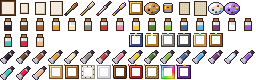
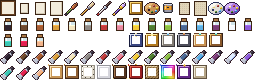
Gilded Vale: Tess's counter, her carved pieces, and the Carved Ash Frame
From the approved design (docs/design/vale_newcomers.md section 5; the user's stock list,
2026-11-09), in data/tess_shop.json:
- Her own pieces, by her heart events: a rabbit, duck and fox from the start; an owl,
  heron and ash and walnut stools after 4; frames after 8; a little Gilded Tree (Bram's
  carving) after 10. Higgsfield, one each in the style of the game's small furniture,
  read down to its size (tools/art/tess_counter_art.py), about 10.5 credits; the tree
  from the carving's art. No signs.
- Beside them the game's own oak, walnut and birch chairs, tables, end tables and
  benches, the Stump Seat, panels, Woodcut Rug and Totem Pole at its prices; dressers
  after 8 hearts.
- The Carved Ash Frame: a new frame style in the main mod (Rare, Thrift), sold only by
  Tess with the mod's pine, oak, birch and walnut frames. Art recoloured from the plain
  frame with chisel marks (tools/art/ash_frame.py); furniture.png is full, so its framed
  paintings use their own sheet (ArtItems.MoreFramesTexture). museart_frametest: 17 styles.
- The counter opens with her anywhere in the studio; three shop lines and a closed card,
  approved by the user.

Checked in a dev game (devmods_tess): the counter opens with her stock, every new item
has its icon, museart_frametest all pass on a fresh farm.

Changed region(s): [[0.75, 0.8, 0.8125, 1.0]]

diff --git a/tools/art/tess_counter_art.py b/tools/art/tess_counter_art.py
@@ -1,0 +1,92 @@
+"""Tess's own pieces for her counter in Studio III (1.4): carved figures and stools. Higgsfield
+gpt_image_2_6, one piece each in the style of the game's own small furniture (its Squirrel
+Figurine, Futan Rabbit, Model Ship and a stool as the reference), the user's OK for about 15
+credits; each cut from its background and read down to the game's size, a pixel taking its
+cell's commonest colour. The small Gilded Tree is Bram's finished carving (studio3/carving/
+state_5), read down the same way.
+
+  sheet  art/tess/counter/carvings.png -> [CP] Gilded Vale (dev)/assets/tess/carvings.png, 8 across:
+         0 rabbit, 1 duck, 2 fox, 3 owl (16x16; row 0)
+         4 ash stool, 5 walnut stool (16x32, the stool in the lower half, as the game's stools)
+         6 heron, 7 small Gilded Tree (16x32)
+
+Usage: python tools/art/tess_counter_art.py
+"""
+import os
+from collections import Counter
+from PIL import Image
+
+D = "art/tess/counter/"
+
+
+def cut(im, tol=48):
+    px = im.load()
+    w, h = im.size
+    bg = px[4, 4]
+    close = lambda c: sum(abs(c[i] - bg[i]) for i in range(3)) < tol
+    seen, todo = set(), [(x, y) for x in range(0, w, 2) for y in (0, h - 1)] + [(x, y) for y in range(0, h, 2) for x in (0, w - 1)]
+    while todo:
+        x, y = todo.pop()
+        if (x, y) in seen or not (0 <= x < w and 0 <= y < h) or not close(px[x, y]):
+            continue
+        seen.add((x, y))
+        todo += [(x + 1, y), (x - 1, y), (x, y + 1), (x, y - 1)]
+    for x, y in seen:
+        px[x, y] = (0, 0, 0, 0)
+    return im
+
+
+def shrink(im, W, H):
+    im = im.crop(im.getbbox())
+    s = min(W / im.width, H / im.height)
+    nw, nh = max(1, round(im.width * s)), max(1, round(im.height * s))
+    ip = im.load()
+    out = Image.new("RGBA", (W, H))
+    op = out.load()
+    ox, oy = (W - nw) // 2, H - nh
+    for ty in range(nh):
+        for tx in range(nw):
+            x0, y0 = int(tx / s), int(ty / s)
+            x1, y1 = max(x0 + 1, int((tx + 1) / s)), max(y0 + 1, int((ty + 1) / s))
+            cells = [ip[x, y] for y in range(y0, min(y1, im.height)) for x in range(x0, min(x1, im.width))]
+            opaque = [c for c in cells if c[3] > 128]
+            if len(opaque) * 2 < len(cells):
+                continue
+            q = Counter((c[0] // 14, c[1] // 14, c[2] // 14) for c in opaque).most_common(1)[0][0]
+            pick = [c for c in opaque if (c[0] // 14, c[1] // 14, c[2] // 14) == q]
+            op[ox + tx, oy + ty] = tuple(sum(c[i] for c in pick) // len(pick) for i in range(3)) + (255,)
+    return out
+
+
+def piece(name, W=16, H=16):
+    return shrink(cut(Image.open(D + name + ".png").convert("RGBA")), W, H)
+
+
+def owl():
+    im = piece("owl")
+    px = im.load()
+    # its eyes read as mud at this size: a dark pupil in a pale ring each
+    for cx in (5, 10):
+        for dx, dy in ((-1, 0), (1, 0), (0, -1), (0, 1)):
+            px[cx + dx, 4 + dy] = (226, 160, 98, 255)
+        px[cx, 4] = (52, 24, 10, 255)
+    px[7, 5] = px[8, 5] = (196, 120, 60, 255)          # the beak
+    return im
+
+
+def main():
+    sheet = Image.new("RGBA", (128, 32))
+    for i, name in enumerate(("rabbit", "duck", "fox")):
+        sheet.alpha_composite(piece(name), (i * 16, 0))
+    sheet.alpha_composite(owl(), (48, 0))
+    for i, name in enumerate(("ash_stool", "walnut_stool")):
+        sheet.alpha_composite(piece(name), (64 + i * 16, 16))
+    sheet.alpha_composite(piece("heron", 16, 32), (96, 0))
+    tree = shrink(cut(Image.open("art/gilded_vale/interiors/studio3/carving/state_5.png").convert("RGBA")), 16, 32)
+    sheet.alpha_composite(tree, (112, 0))
+    sheet.save(D + "carvings.png")
+    print("wrote", D + "carvings.png")
+
+
+if __name__ == "__main__":
+    main()

diff --git a/tools/art/ash_frame.py b/tools/art/ash_frame.py
@@ -1,0 +1,72 @@
+"""Draws the Carved Ash Frame (1.4): the frame Tess carves and sells at her counter in the
+Gilded Vale's Studio III, from her 8-heart event (docs/tess_brief.md; the user, 2026-11-09).
+Rare, Thrift (ArtStudio/Painting/Frames.cs): she wastes nothing.
+
+Made the way frame_styles.py makes the 1.3 frames: the plain frame (furniture.png's first 2x2
+and 3x3) recoloured by lightness into pale ash, with chisel notches cut along its border; its
+1x1 the way frame_1x1.py makes theirs; its item icon from the Picture Frame's (items.png 8).
+furniture.png is full (80 tiles a row), so the ash frame's framed paintings have a sheet of
+their own:
+
+  ArtStudio/assets/furniture_more.png (80x64, 5 tiles a row):
+      sprite 0  the 2x2 frame        sprite 2  the 3x3 frame        sprite 15  the 1x1 frame
+  ArtStudio/assets/items.png: the frame item at sprite 76
+
+Usage: ash_frame.py <ArtStudio/assets dir>
+"""
+import os
+import sys
+from PIL import Image
+
+sys.path.insert(0, os.path.dirname(os.path.abspath(__file__)))
+from set_frames import recolour
+from frame_1x1 import ring
+
+# Darkest to lightest: pale ash, a little grey.
+ASH = [(98, 84, 66), (142, 126, 100), (180, 164, 134), (206, 192, 162), (226, 214, 188), (242, 234, 214)]
+ITEM_SPRITE = 76
+
+
+def notches(tile, dark):
+    """Chisel cuts along the frame: every sixth pixel on the border's middle line a little
+    darker, like a row of gouge marks (subtle: the frame still reads as a frame)."""
+    px = tile.load()
+    w, h = tile.size
+    inside = px[w // 2, h // 2][:3]
+    frame = {(x, y) for y in range(h) for x in range(w) if px[x, y][3] and px[x, y][:3] != inside}
+    for x in range(4, w - 4, 6):
+        for y in (1, h - 2):
+            if (x, y) in frame:
+                px[x, y] = dark + (255,)
+    for y in range(4, h - 4, 6):
+        for x in (1, w - 2):
+            if (x, y) in frame:
+                px[x, y] = dark + (255,)
+    return tile
+
+
+def main():
+    assets = sys.argv[1]
+    plain = Image.open(os.path.join(assets, "furniture.png")).convert("RGBA")
+    out = Image.new("RGBA", (80, 64), (0, 0, 0, 0))
+    medium = notches(recolour(plain.crop((0, 0, 32, 32)).copy(), ASH), ASH[1])
+    large = notches(recolour(plain.crop((32, 0, 80, 48)).copy(), ASH), ASH[1])
+    out.alpha_composite(medium, (0, 0))
+    out.alpha_composite(large, (32, 0))
+    out.alpha_composite(ring(medium), (0, 48))
+    out.save(os.path.join(assets, "furniture_more.png"))
+
+    items_path = os.path.join(assets, "items.png")
+    items = Image.open(items_path).convert("RGBA")
+    per_row = items.width // 16
+    x, y = 8 % per_row * 16, 8 // per_row * 16
+    icon = recolour(items.crop((x, y, x + 16, y + 16)).copy(), ASH, keep_inside=False)
+    tx, ty = ITEM_SPRITE % per_row * 16, ITEM_SPRITE // per_row * 16
+    items.paste((0, 0, 0, 0), (tx, ty, tx + 16, ty + 16))
+    items.alpha_composite(icon, (tx, ty))
+    items.save(items_path)
+    print("wrote furniture_more.png and the item icon at sprite", ITEM_SPRITE)
+
+
+if __name__ == "__main__":
+    main()

diff --git a/ArtStudio/Painting/ArtItems.cs b/ArtStudio/Painting/ArtItems.cs
@@ -53,7 +53,9 @@ internal static class ArtItems
     // And the rest (1.3, section 5 of the plan; tools/art/frame_styles.py):
     // common, from Sable's shop; uncommon, as Painting levels up; legendary,
     // Qi's. What each does when it hangs is in Frames.
-    private static readonly string[] MoreFrameIds = { "pine", "oak", "birch", "white", "walnut", "red-lacquer", "rope", "prismatic", "qi" };
+    // (1.4: "ash", the Carved Ash Frame, sold only by Tess in the Gilded Vale. furniture.png is
+    // full, so its framed paintings are on a sheet of their own: MoreFramesTexture.)
+    private static readonly string[] MoreFrameIds = { "pine", "oak", "birch", "white", "walnut", "red-lacquer", "rope", "prismatic", "qi", "ash" };
     public static readonly FrameStyle[] MoreFrames = MoreFrameIds.Select(SetFrame).ToArray();
     private const int MoreFrameSprite = 67, MoreFrameFurniture = 35;
 
@@ -68,6 +70,10 @@ internal static class ArtItems
 
     public const string BigCraftablesTexture = "Mods/" + ModEntry.Id + "/BigCraftables";
     public const string FurnitureTexture = "Mods/" + ModEntry.Id + "/Furniture";
+    // Frames that don't fit furniture.png (tools/art/ash_frame.py): a style's 2x2 at 0, 3x3 at 2,
+    // 1x1 at 15 (5 tiles a row), five tiles across per style.
+    public const string MoreFramesTexture = "Mods/" + ModEntry.Id + "/FurnitureMore";
+    private static readonly string[] OwnSheetFrames = { "ash" };
 
     // Sprite indices in the items sheet (16 columns of 16×16).
     private const int CanvasSprite = 1, BrushSprite = 4, FrameSprite = 8, PigmentSprite = 16, TubeSprite = 48;
@@ -334,6 +340,14 @@ internal static class ArtItems
         for (int n = 0; n < MoreFrames.Length; n++)
         {
             var style = MoreFrames[n];
+            int own = System.Array.IndexOf(OwnSheetFrames, style.Id);
+            if (own >= 0)
+            {
+                string more = MoreFramesTexture.Replace('/', '\\');
+                furniture[style.SmallId] = $"{style.SmallId}/painting/1 1/1 1/1/250/-1/{I18n.Get("item.framed")}/{own * 5 + 15}/{more}/true";
+                furniture[style.LargeId] = $"{style.LargeId}/painting/3 3/3 3/1/500/-1/{I18n.Get("item.framed")}/{own * 5 + 2}/{more}/true";
+                continue;
+            }
             int small = MoreFrameFurniture + 5 * n;
             furniture[style.SmallId] = $"{style.SmallId}/painting/1 1/1 1/1/250/-1/{I18n.Get("item.framed")}/{small + SmallFrameRow}/{texture}/true";
             furniture[style.LargeId] = $"{style.LargeId}/painting/3 3/3 3/1/500/-1/{I18n.Get("item.framed")}/{small + 2}/{texture}/true";

diff --git a/ArtStudio/DevGame.cs b/ArtStudio/DevGame.cs
@@ -4181,8 +4181,8 @@ internal static class DevGame
         var furniture = DataLoader.Furniture(Game1.content);
         var missing = ArtItems.FrameStyles.Where(s => !objects.ContainsKey(s.ItemId) || !furniture.ContainsKey(s.SmallId) || !furniture.ContainsKey(s.LargeId)
             || !Frames.Styles.ContainsKey(s.Id) || ItemRegistry.Create("(O)" + s.ItemId).DisplayName.Contains("Error")).Select(s => s.Id).ToList();
-        Check(monitor, "all 16 frame styles have a frame, framed paintings, a rarity and a trait",
-            ArtItems.FrameStyles.Length == 16 && missing.Count == 0, missing.Count > 0 ? string.Join(", ", missing) : "");
+        Check(monitor, "all 17 frame styles have a frame, framed paintings, a rarity and a trait",
+            ArtItems.FrameStyles.Length == 17 && missing.Count == 0, missing.Count > 0 ? string.Join(", ", missing) : "");
 
         // A room's studio: the three strongest framed paintings count.
         SObject Painting(int quality = PaintingRules.Gold)

diff --git a/ArtStudio/Menus/EaselMenu.Setup.cs b/ArtStudio/Menus/EaselMenu.Setup.cs
@@ -836,6 +836,7 @@ internal sealed partial class EaselMenu
         ["walnut"] = (new(36, 20, 14), new(112, 72, 44), new(164, 118, 76), new(214, 178, 96)),
         ["red-lacquer"] = (new(70, 12, 16), new(186, 48, 44), new(232, 104, 84), new(236, 196, 84)),
         ["rope"] = (new(96, 70, 40), new(196, 164, 112), new(236, 214, 170), new(136, 104, 64)),
+        ["ash"] = (new(98, 84, 66), new(206, 192, 162), new(242, 234, 214), new(142, 126, 100)),
         ["prismatic"] = (new(90, 60, 140), new(90, 190, 220), new(250, 220, 120), new(240, 110, 160)),
         ["qi"] = (new(40, 14, 58), new(132, 64, 170), new(200, 140, 230), new(236, 196, 84)),
         ["sandstone"] = (new(110, 66, 40), new(222, 178, 112), new(250, 232, 190), new(190, 250, 240)),

diff --git a/ArtStudio/ModEntry.cs b/ArtStudio/ModEntry.cs
@@ -167,6 +167,8 @@ public class ModEntry : Mod
             e.LoadFromModFile<Texture2D>("assets/bigcraftables.png", AssetLoadPriority.Exclusive);
         else if (name.IsEquivalentTo(ArtItems.FurnitureTexture))
             e.LoadFromModFile<Texture2D>("assets/furniture.png", AssetLoadPriority.Exclusive);
+        else if (name.IsEquivalentTo(ArtItems.MoreFramesTexture))
+            e.LoadFromModFile<Texture2D>("assets/furniture_more.png", AssetLoadPriority.Exclusive);
     }
 
     private static CanvasKind? ParseCanvas(string arg) => arg.ToLowerInvariant() switch

diff --git a/ArtStudio/Painting/Frames.cs b/ArtStudio/Painting/Frames.cs
@@ -46,6 +46,7 @@ internal static class Frames
         ["driftwood"] = (FrameRarity.Rare, FrameTrait.Sparks),
         ["iron"] = (FrameRarity.Rare, FrameTrait.Learning),
         ["sandstone"] = (FrameRarity.Rare, FrameTrait.Light),
+        ["ash"] = (FrameRarity.Rare, FrameTrait.Thrift),       // 1.4: Tess's, carved in the Gilded Vale
         ["gold-leaf"] = (FrameRarity.Epic, FrameTrait.Value),
         ["dwarvish"] = (FrameRarity.Epic, FrameTrait.Thrift),
         ["prismatic"] = (FrameRarity.Legendary, FrameTrait.Sparks),

diff --git a/docs/tess_brief.md b/docs/tess_brief.md
@@ -134,3 +134,9 @@ Sample lines:
 - **Her NPC data** (`data/tess.json`), behind the residents' switch (`ValeResidents`, off by default).
 - **Her art** (`art/tess/README.md`): the walk sheet recoloured from Emily's; six Higgsfield portraits from the
   user's pick, no pencil in her hair (Margot has one). Spouse frames come with her marriage.
+- **Her counter** (approved 2026-11-09): `data/tess_shop.json`. Her pieces (`tools/art/tess_counter_art.py`,
+  Higgsfield, about 10.5 credits): a rabbit, duck and fox from the start; an owl, heron and ash and walnut
+  stools after 4 hearts; the Carved Ash Frame and the mod's wooden frames after 8; a little Gilded Tree after
+  10. Beside them the game's oak, walnut and birch furniture (dressers after 8). The **Carved Ash Frame** is a
+  new frame style in the main mod (Rare, Thrift; `tools/art/ash_frame.py`, its own sheet
+  `ArtStudio/assets/furniture_more.png`), sold only by her. Wiki's Frames page to update at release.
